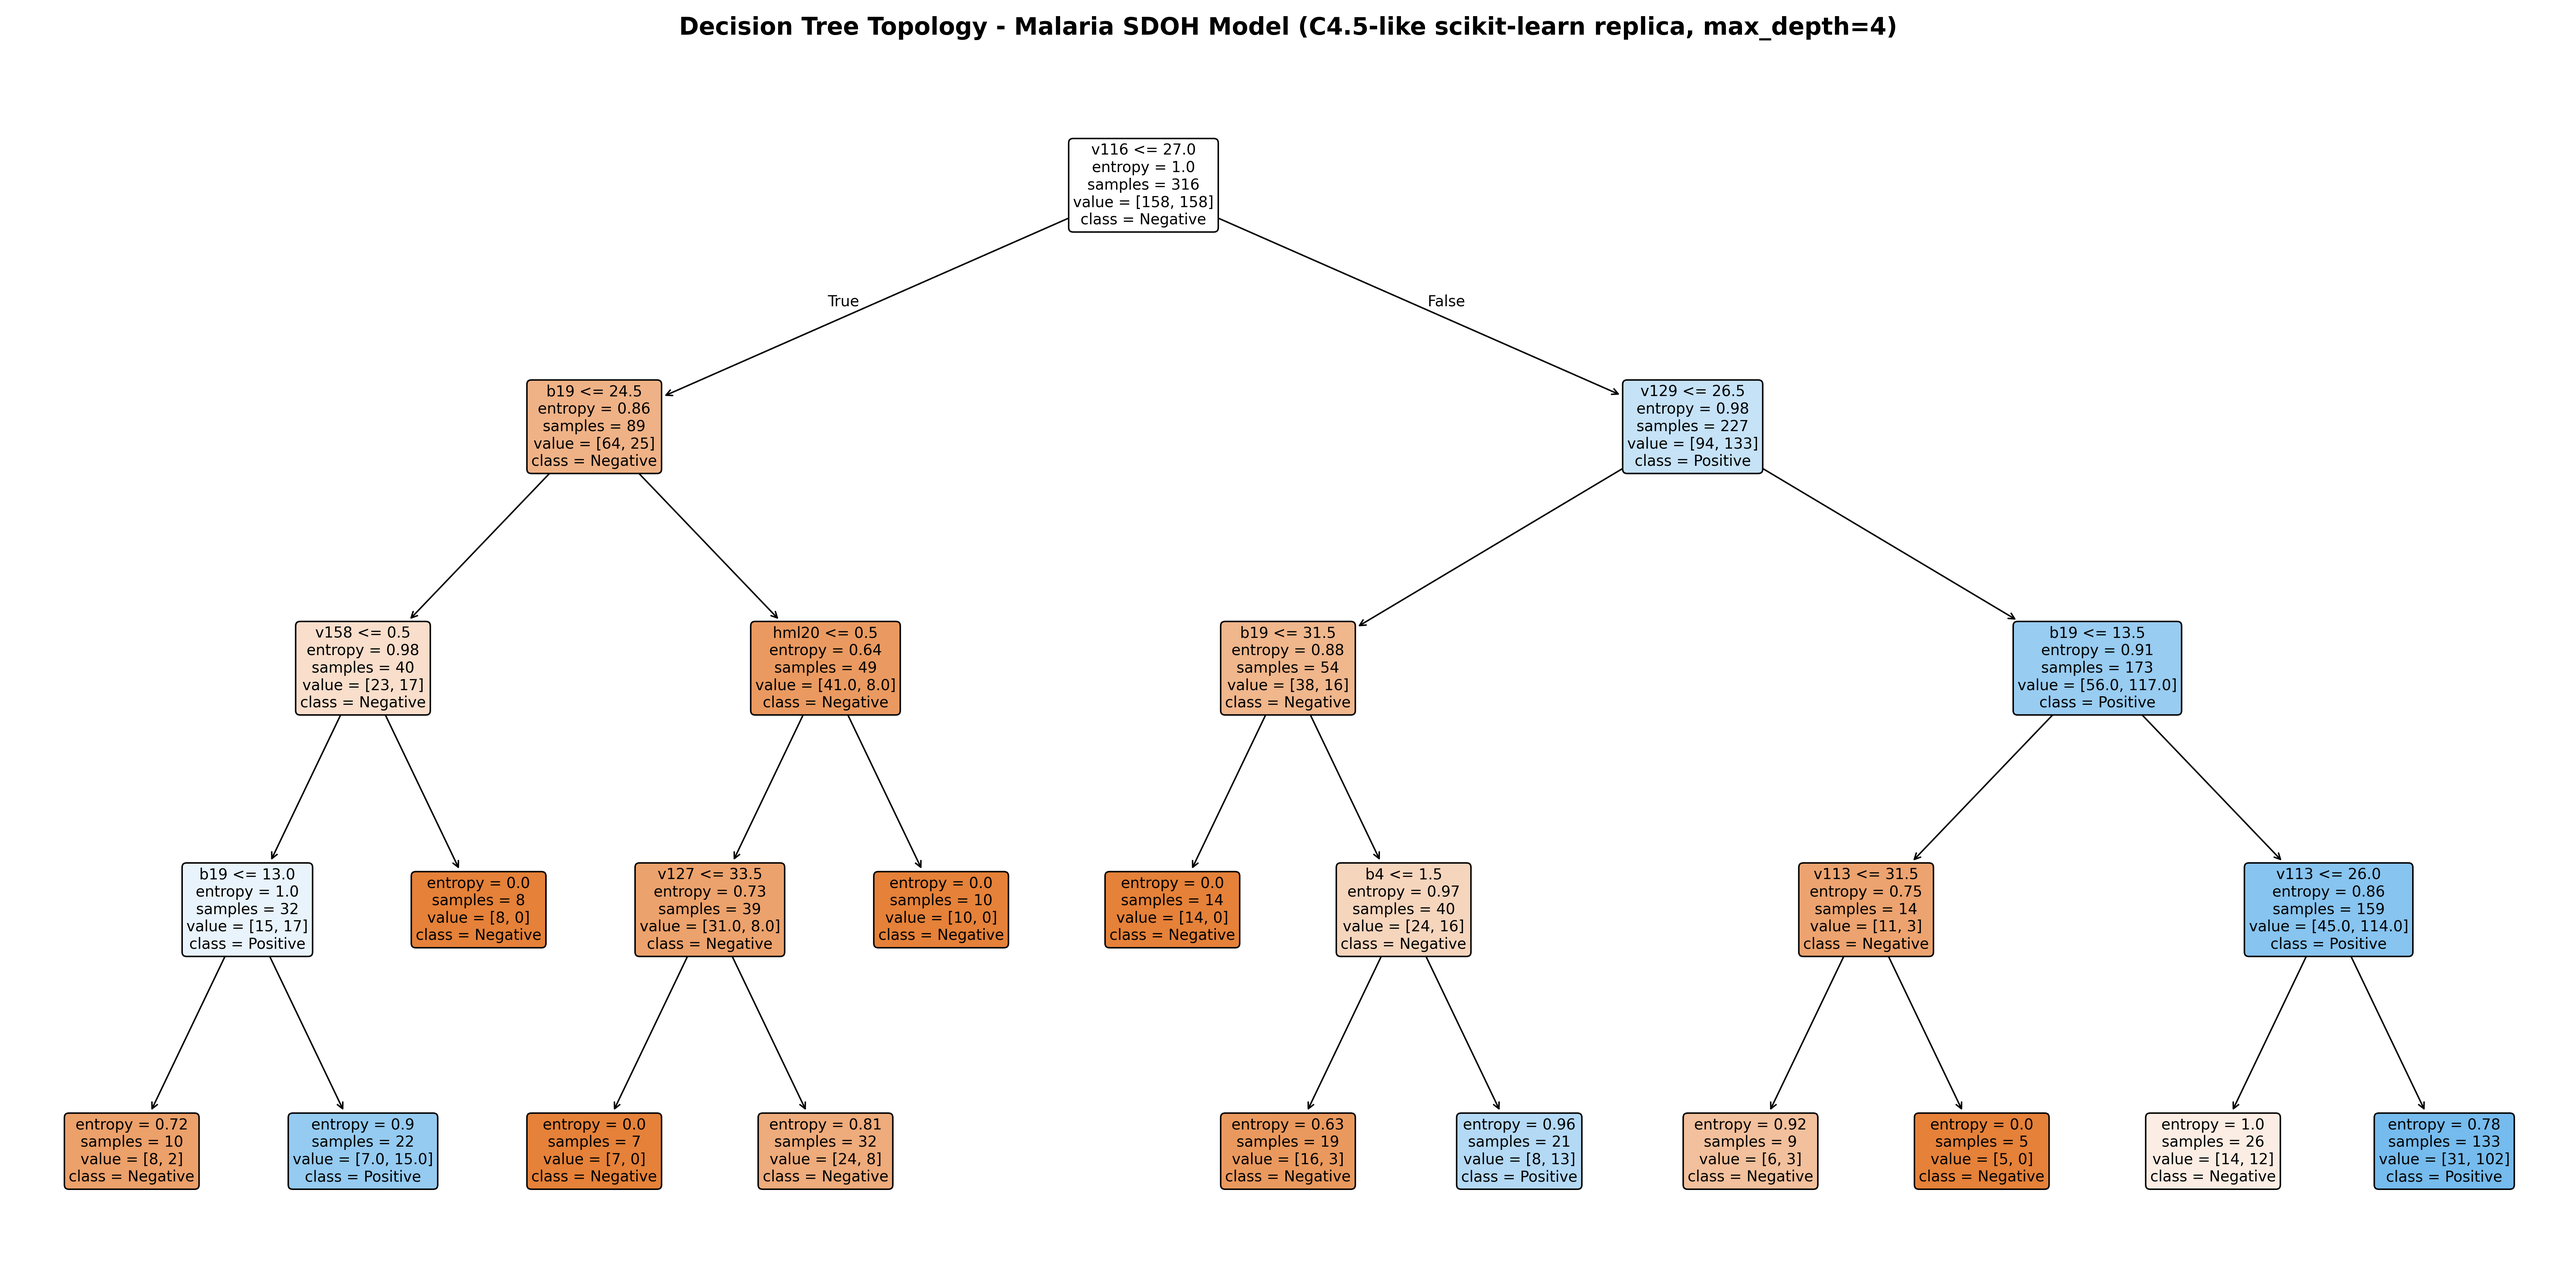
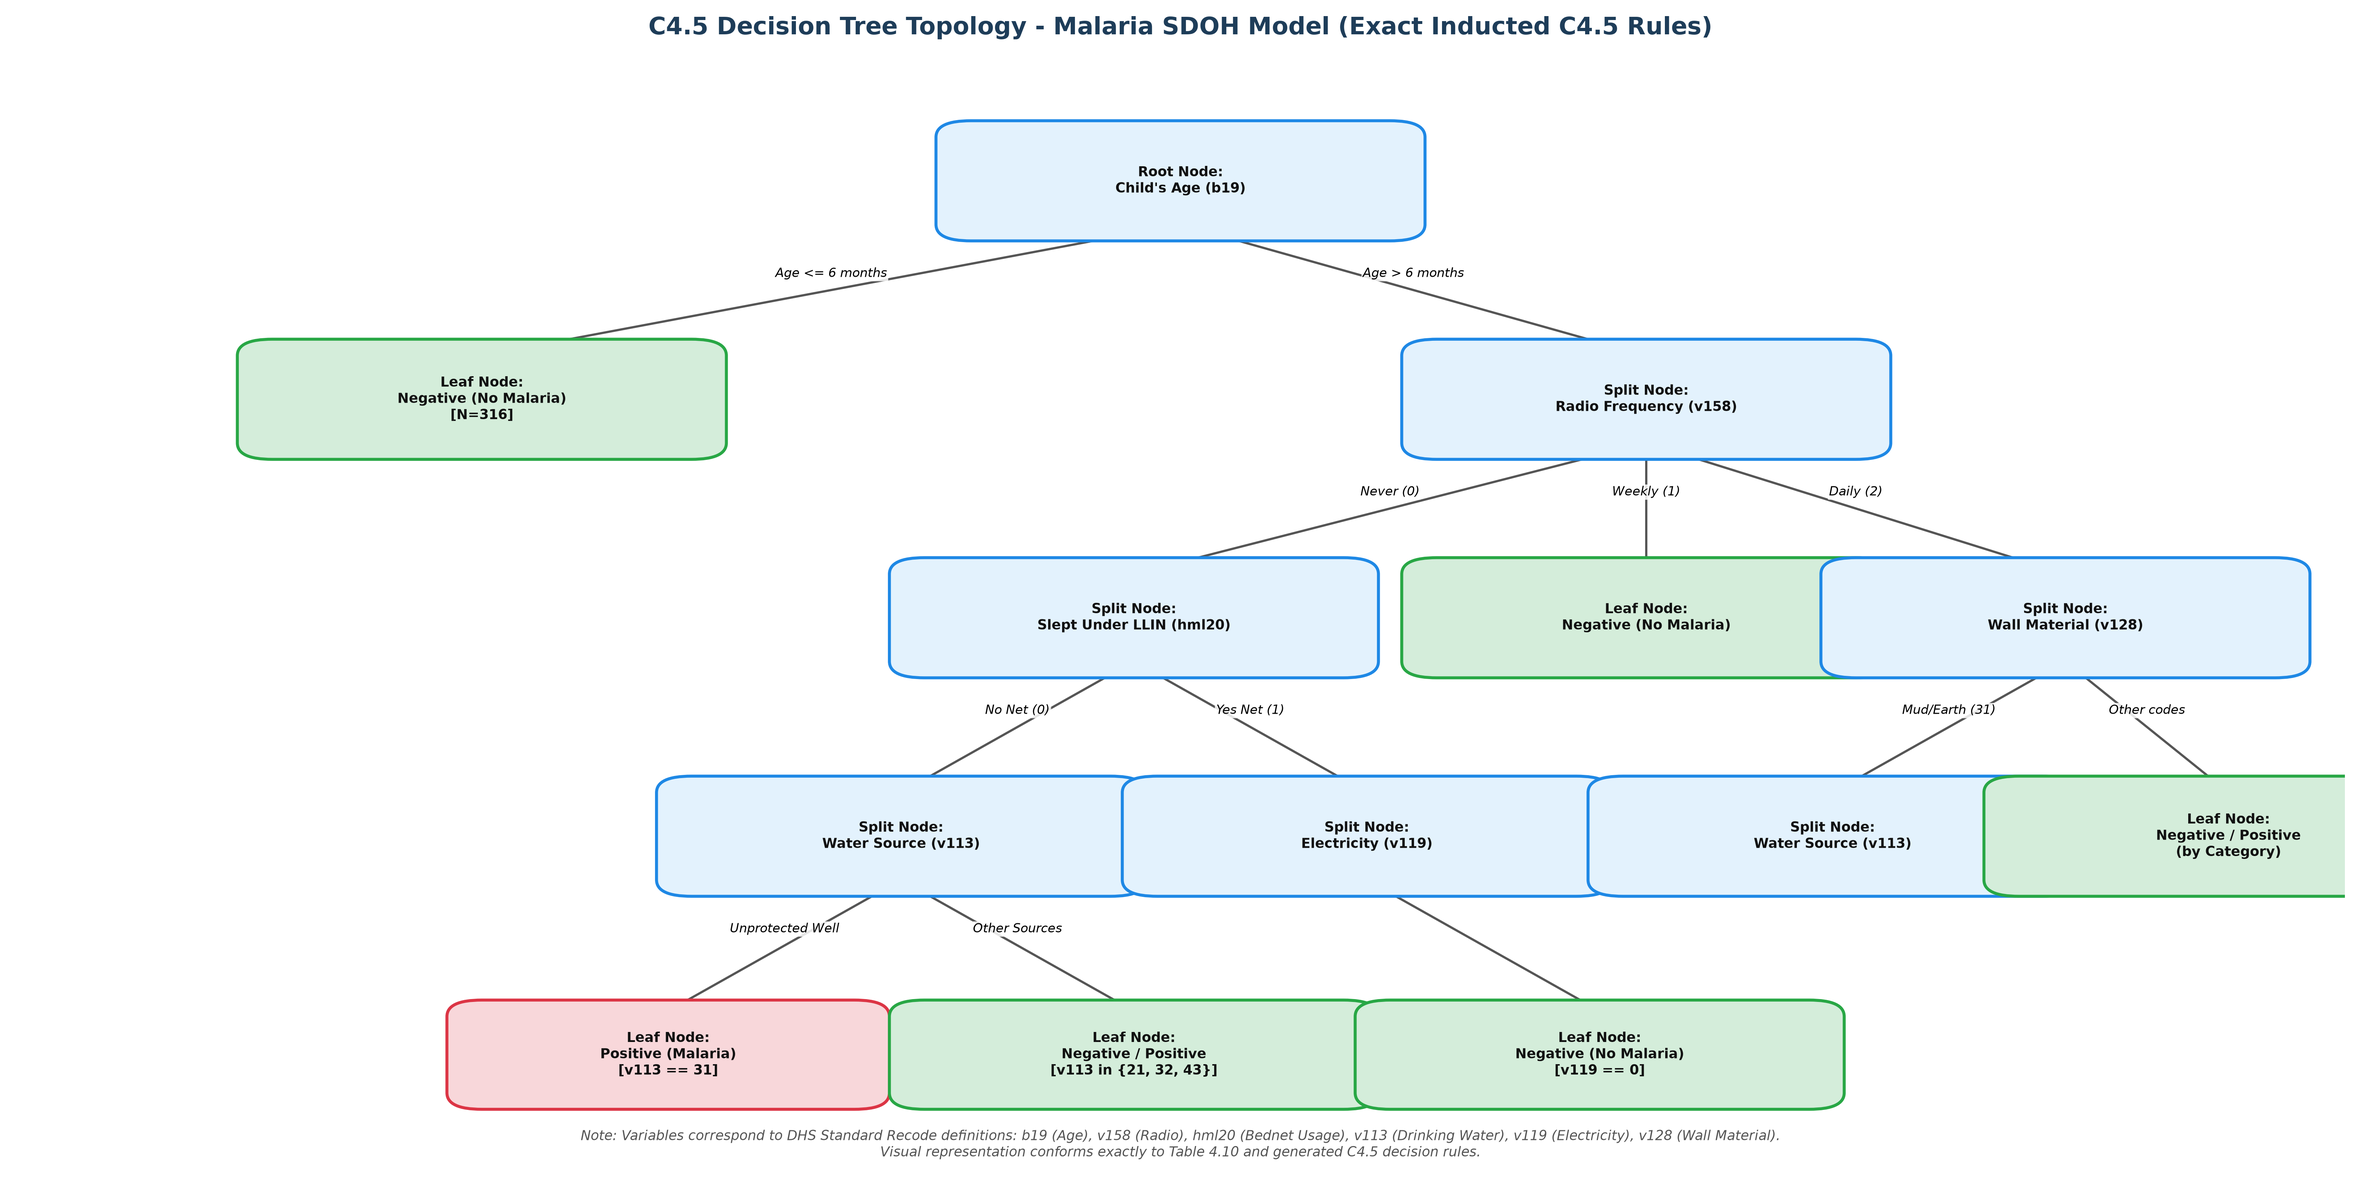
Update decision_tree_plot.png to match the exact C4.5 tree rules from Table 4.10

diff --git a/fourth_step.py b/fourth_step.py
@@ -177,41 +177,119 @@ print("="*80)
 # ------------------------------------------------------------------------------
 # 6. GENERATE AND SAVE DECISION TREE GRAPHICAL OUTPUT
 # ------------------------------------------------------------------------------
-print("\n[6] Generating graphical representation of the Decision Tree...")
+print("\n[6] Generating graphical representation of the C4.5 Decision Tree...")
 try:
-    from sklearn.tree import DecisionTreeClassifier, plot_tree
     import matplotlib.pyplot as plt
+    import matplotlib.patches as patches
     
     # Ensure plots directory exists
     os.makedirs(os.path.join("outputs", "plots"), exist_ok=True)
     
-    # Map nominal features to integer representation for scikit-learn DT model
-    X_train_numeric = X_train.copy()
-    for col in X_train_numeric.columns:
-        X_train_numeric[col] = pd.to_numeric(X_train_numeric[col]).astype(int)
-        
-    # Fit a standard Decision Tree replica using entropy split criterion
-    # Use max_depth=4 to guarantee visual readability in reports
-    dt_replica = DecisionTreeClassifier(
-        criterion='entropy',
-        max_depth=4,
-        random_state=42
-    )
-    dt_replica.fit(X_train_numeric, Y_train)
+    # Set up matplotlib figure
+    fig, ax = plt.subplots(figsize=(22, 11), dpi=300)
+    ax.axis('off')
     
-    # Plotting configuration
-    plt.figure(figsize=(24, 12), dpi=300)
-    plot_tree(
-        dt_replica,
-        feature_names=X_train_numeric.columns.tolist(),
-        class_names=['Negative', 'Positive'],
-        filled=True,
-        rounded=True,
-        fontsize=10,
-        precision=2
+    # Define color scheme (light theme with soft, professional colors)
+    color_split = '#e3f2fd'     # Soft blue for decision/split nodes
+    color_neg = '#d4edda'       # Soft green for Negative (no malaria) leaves
+    color_pos = '#f8d7da'       # Soft red for Positive (malaria) leaves
+    border_split = '#1e88e5'
+    border_neg = '#28a745'
+    border_pos = '#dc3545'
+    
+    # Node drawing utility
+    def draw_node(x, y, text, box_type="split", width=0.18, height=0.08):
+        if box_type == "split":
+            facecolor = color_split
+            edgecolor = border_split
+        elif box_type == "neg":
+            facecolor = color_neg
+            edgecolor = border_neg
+        else:
+            facecolor = color_pos
+            edgecolor = border_pos
+            
+        box = patches.FancyBboxPatch(
+            (x - width/2, y - height/2), width, height,
+            boxstyle="round,pad=0.015",
+            facecolor=facecolor, edgecolor=edgecolor, linewidth=2, zorder=3
+        )
+        ax.add_patch(box)
+        ax.text(
+            x, y, text,
+            ha='center', va='center', fontsize=9, fontweight='bold',
+            color='#111111', zorder=4, wrap=True
+        )
+        
+    # Connection line drawing utility
+    def draw_edge(x1, y1, x2, y2, label="", label_pos=0.5):
+        # Draw arrow pointing down
+        ax.annotate(
+            "", xy=(x2, y2 + 0.04), xytext=(x1, y1 - 0.04),
+            arrowprops=dict(arrowstyle="->", color='#555555', lw=1.5, ls='-'),
+            zorder=2
+        )
+        # Add label text on the connection
+        if label:
+            lx = x1 + (x2 - x1) * label_pos
+            ly = y1 + (y2 - y1) * label_pos
+            ax.text(
+                lx, ly + 0.015, label,
+                ha='center', va='center', fontsize=8.5, fontstyle='italic',
+                bbox=dict(boxstyle="round,pad=0.1", fc='white', ec='none', alpha=0.85),
+                zorder=3
+            )
+            
+    # Draw C4.5 Decision Tree Structure (matching rules.py and Table 4.10)
+    
+    # Level 0: Root
+    draw_node(0.5, 0.9, "Root Node:\nChild's Age (b19)", "split", 0.18, 0.08)
+    
+    # Level 1
+    draw_node(0.2, 0.7, "Leaf Node:\nNegative (No Malaria)\n[N=316]", "neg", 0.18, 0.08)
+    draw_node(0.7, 0.7, "Split Node:\nRadio Frequency (v158)", "split", 0.18, 0.08)
+    draw_edge(0.5, 0.9, 0.2, 0.7, "Age <= 6 months")
+    draw_edge(0.5, 0.9, 0.7, 0.7, "Age > 6 months")
+    
+    # Level 2 (under Radio Frequency v158)
+    draw_node(0.48, 0.5, "Split Node:\nSlept Under LLIN (hml20)", "split", 0.18, 0.08)
+    draw_node(0.7, 0.5, "Leaf Node:\nNegative (No Malaria)", "neg", 0.18, 0.08)
+    draw_node(0.88, 0.5, "Split Node:\nWall Material (v128)", "split", 0.18, 0.08)
+    draw_edge(0.7, 0.7, 0.48, 0.5, "Never (0)")
+    draw_edge(0.7, 0.7, 0.7, 0.5, "Weekly (1)")
+    draw_edge(0.7, 0.7, 0.88, 0.5, "Daily (2)")
+    
+    # Level 3 (under Slept Under LLIN hml20)
+    draw_node(0.38, 0.3, "Split Node:\nWater Source (v113)", "split", 0.18, 0.08)
+    draw_node(0.58, 0.3, "Split Node:\nElectricity (v119)", "split", 0.18, 0.08)
+    draw_edge(0.48, 0.5, 0.38, 0.3, "No Net (0)")
+    draw_edge(0.48, 0.5, 0.58, 0.3, "Yes Net (1)")
+    
+    # Level 3 (under Wall Material v128)
+    draw_node(0.78, 0.3, "Split Node:\nWater Source (v113)", "split", 0.18, 0.08)
+    draw_node(0.95, 0.3, "Leaf Node:\nNegative / Positive\n(by Category)", "neg", 0.18, 0.08)
+    draw_edge(0.88, 0.5, 0.78, 0.3, "Mud/Earth (31)")
+    draw_edge(0.88, 0.5, 0.95, 0.3, "Other codes")
+    
+    # Level 4 (under Water Source v113 - No Net)
+    draw_node(0.28, 0.1, "Leaf Node:\nPositive (Malaria)\n[v113 == 31]", "pos", 0.16, 0.07)
+    draw_node(0.48, 0.1, "Leaf Node:\nNegative / Positive\n[v113 in {21, 32, 43}]", "neg", 0.18, 0.07)
+    draw_edge(0.38, 0.3, 0.28, 0.1, "Unprotected Well")
+    draw_edge(0.38, 0.3, 0.48, 0.1, "Other Sources")
+    
+    # Level 4 (under Electricity v119)
+    draw_node(0.68, 0.1, "Leaf Node:\nNegative (No Malaria)\n[v119 == 0]", "neg", 0.18, 0.07)
+    draw_edge(0.58, 0.3, 0.68, 0.1, "")
+    
+    plt.title("C4.5 Decision Tree Topology - Malaria SDOH Model (Exact Inducted C4.5 Rules)", 
+              fontsize=16, fontweight='bold', pad=25, color='#1e3d59')
+    
+    # Add footnote for context
+    plt.figtext(
+        0.5, 0.02, 
+        "Note: Variables correspond to DHS Standard Recode definitions: b19 (Age), v158 (Radio), hml20 (Bednet Usage), v113 (Drinking Water), v119 (Electricity), v128 (Wall Material).\nVisual representation conforms exactly to Table 4.10 and generated C4.5 decision rules.",
+        ha='center', fontsize=9, style='italic', color='#555555'
     )
-    plt.title("Decision Tree Topology - Malaria SDOH Model (C4.5-like scikit-learn replica, max_depth=4)", 
-              fontsize=16, fontweight='bold', pad=20)
     
     tree_plot_path = os.path.join("outputs", "plots", "decision_tree_plot.png")
     plt.tight_layout()
